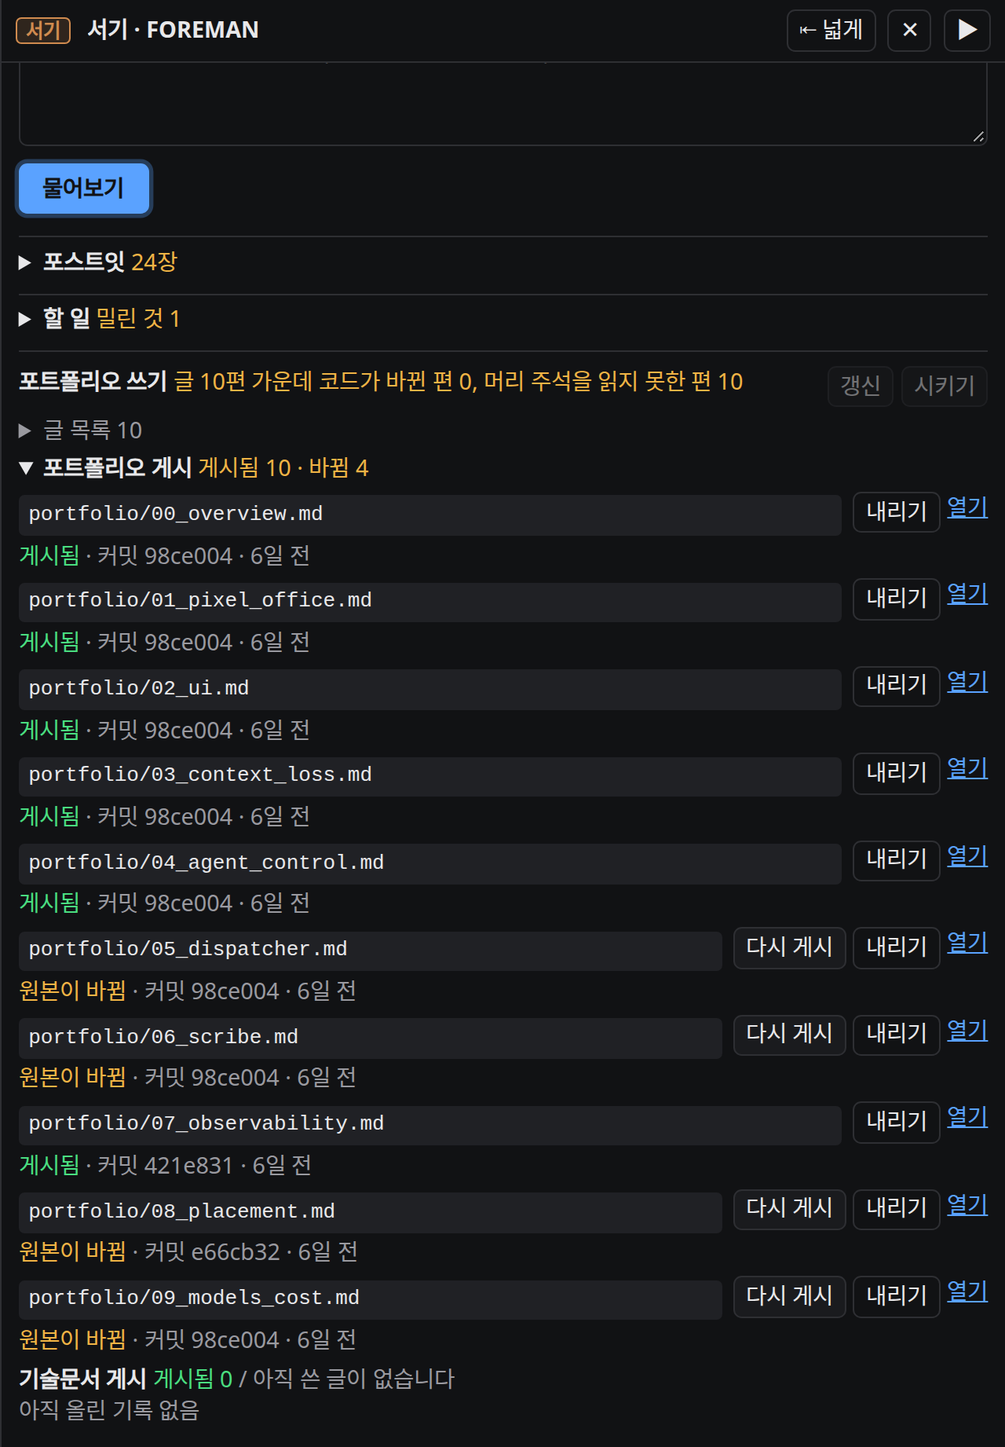
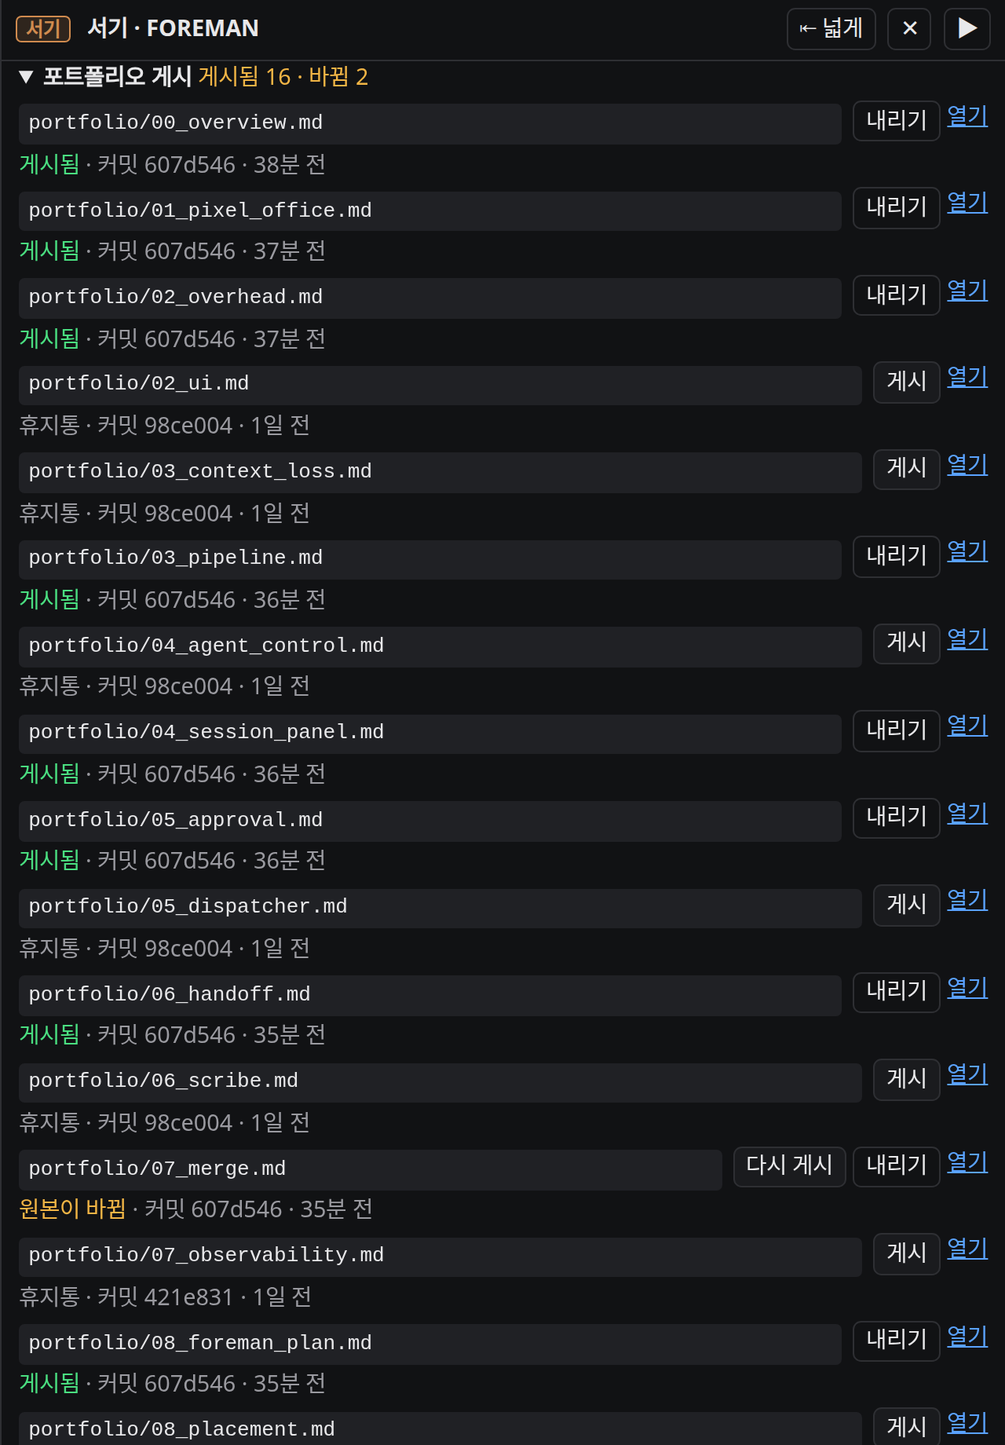
docs: 코드가 바뀐 포트폴리오 8편을 맞춤
서기실이 코드가 바뀐 편으로 센 여덟 편에서, 읽은 뒤 바뀐 코드에 걸리는 문단만 고쳤습니다.
서기실 포트폴리오 게시 칸이 프로젝트별로 열리는 것, 인계 요약 실패 알림이 묶이지 않고 바로 가는 것,
Fable 가격을 비워 사용량 화면에 모름으로 보이는 것, 코더가 고친 코드의 문서도 함께 고치는 규칙을 반영했습니다.
여덟 편 모두 머리 주석의 읽은 커밋을 지금 main으로 바꿨고, 서기실 게시 사진 한 장을 다시 찍었습니다.
사람이 정하는 중인 판단 항목은 고치지 않았습니다.

diff --git a/log/foreman-5_portfolio_backlog_20261117.md b/log/foreman-5_portfolio_backlog_20261117.md
@@ -1,0 +1,61 @@
+# 밀린 포트폴리오 한 번 밀어내기 (foreman-5 서기, 2026-11-17)
+
+관리자 410이 넘긴 사용자 지시. 517 전에 쌓인 서기실 「코드가 바뀐 편」만, 편 전체가 아니라 읽은 커밋 뒤 바뀐 코드에 걸리는 문단만 고쳤다. 편 목록(16편)은 그대로다.
+
+## 1. 대상
+
+서기실 셈법(머리 주석 「읽은 커밋」..main 사이에 「다루는 곳」을 바꾼 feat, fix 커밋)으로 센 8편. 걸린 커밋은 셋뿐이었다.
+
+| 편 | 걸린 커밋 |
+|---|---|
+| 01_pixel_office | fb7121b(517 문서 밀림 사슬 끊기, `roles.js`) |
+| 06_handoff | fb7121b, afcad6b(514 실패 알림 바로, Fable 가격 비우기) |
+| 07_merge | fb7121b |
+| 08_foreman_plan | fb7121b |
+| 09_new_session | fb7121b, afcad6b |
+| 10_scribe_room | 5adb03a(513 포트폴리오 패널 프로젝트별) |
+| 14_usage | afcad6b |
+| 15_telegram | afcad6b |
+
+고친 뒤 같은 셈법으로 다시 세어 0편이다. 8편 모두 읽은 커밋을 fb7121b(main)로 바꿨다. 「다루는 곳」은 바꾸지 않았다.
+
+나눈 방법: 10편과 14, 15편은 서브에이전트 둘에게 맡기고(병렬), 01, 06, 07, 08, 09편은 이 세션이 고쳤다. 서브에이전트 결과는 diff와 코드로 다시 확인했다.
+
+## 2. 고친 문장과 근거
+
+| 편:줄 | 무엇을 | 근거 |
+|---|---|---|
+| 01 | 읽은 커밋만. 53줄 「코드를 고치는 코더」는 짧게 줄인 말이라 지금도 맞음 | `bridge/static/js/roles.js` |
+| 06:54 | 요약 문단 끝에 더함: 요약이 꼴 없이 끝남, 기다리는 중 세션 끝남, 시간 초과면 ⚠를 단 텔레그램 알림이 바로 가고 묶음을 켠 프로젝트여도 미루지 않음 | `bridge/handoff.py` `_notify(fail=True)`, `bridge/notify.py` `direct_decision`, afcad6b, `log/foreman-5_fail_now_unpriced_20261117.md` |
+| 07 | 읽은 커밋만. 517이 「📄 걸리는 문서」 줄을 이미 넣었고, 30줄 「관리자 세션에 카드를 알리지 못하면 바로 알림」은 지금 코드(`later=False`)와 맞음 | `bridge/mergeprep.py` `_tell_manager_card`, fb7121b |
+| 08:49 | 교장이 코드 고친 뒤 문서만 맞추는 서기 세션을 따로 내지 않고, 규칙은 브리지가 코더 첫 글 끝에 붙인다는 두 문장 | `bridge/foreman.py` INSTRUCTIONS 「coder」 줄, `bridge/handoff.py` `_finish_spawn`, fb7121b |
+| 09:34 | 역할 표 아래 새 문단: 코더로 띄우면 첫 입력 끝에 문서도 함께 고치라는 규칙과 거꾸로 찾는 도구 안내가 붙고, 요약 넣고 시작할 때도 붙으며 디자이너, 조사에는 없음 | `bridge/docrefs.py` `prompt_block`, `bridge/roles.py` `CODER_DOCS_RULE`, `DOCS_RULE_ROLES`, `bridge/handoff.py` `inject(rule=)` |
+| 10:48 | 게시 사진 캡션을 새 사진에 맞춰 다시 씀(게시됨 16, 바뀜 2, 휴지통 줄) | 새로 찍은 사진, `bridge/static/js/scribe.js` |
+| 10:52 | 새 문단: 게시 칸이 서기실을 연 프로젝트의 목록을 읽고 게시, 다시 게시, 내리기, 원본 없는 페이지 내리기를 그 프로젝트로 보냄. portfolio 폴더 없으면 「아직 없음」, 커밋 못 읽으면 읽지 못했다고, Notion 자리 없으면 버튼이 까닭과 함께 막히고 서버도 거절 | 5adb03a, `bridge/static/js/scribe.js` `portPubBlock`, `bridge/notion.py` `portfolio_place`, `bridge/api/publish.py`, `log/foreman-4_portfolio_per_project_20261117.md` |
+| 14:19 | Fable 가격 칸을 출처가 없어 비웠고 그 토큰은 「모름」, 화면 띠 「환산이 일부 빠졌습니다.」와 카드 「+ 모름」 | afcad6b, `config/usage.toml`, `bridge/usage.py`, `bridge/static/usage.html` |
+| 14:21 | 가격 없는 Fable 사용이 빠져 한도 하한이 그만큼 작게 나옴 | `bridge/static/usage.html` 띠 글, `bridge/usage.py` `limit_status` |
+| 14:37 | 모델별 표에서 환산 못 한 줄에 「+ 모름」, 호버로 빠진 토큰 수 | `bridge/static/usage.html` `usdRow` |
+| 15:38-40 | 바로 가는 알림 표에 세 줄: 🛡 붙은 「⑂ 합치기 준비됨」, 관리자에게 못 전한 「… 텔레그램으로 남깁니다」, ⚠ 인계 요약 실패 | `bridge/mergeprep.py` `rule_urgent`, 1335줄 글, `bridge/handoff.py`, afcad6b |
+| 15:48 | 바로 가는 것 문단에 합치기 카드 예외와 인계 요약 실패를 더함 | `config/notify.toml`, `bridge/notify.py` `direct_decision` |
+
+사진: `portfolio/img/10_scribe_room_publish.png`만 지금 화면으로 다시 찍음(마법학교, `tools/screen.py --eval --clip`, 263KB). 열어 보고 비밀값, 토큰, 다른 프로젝트 글이 없음을 확인했다.
+
+## 3. 그대로 둔 것
+
+- 판단 19건(`log/foreman-6_portfolio_scope_check_20261117.md`, `log/foreman-7_portfolio_scope_fix_20261117.md` 「6.」)은 고치지 않았다. 10편 10, 34, 50줄은 원문을 두고 513 동작만 아래 새 문단으로 더했다. 15편 표(판단 `15:27-37`)에는 514와 합치기 카드의 바로 가는 줄만 더했고, 승인 쪽 🛡 규칙 파일 알림(rulefile), 압축, 맥락, 겹침, 응답 없음 줄은 판단 항목이 묻는 것이라 더하지 않았다. 사람이 정할 때 참고: 서브에이전트가 돌고 있는 브리지에서 읽어 보니 인프라 방도 「포트폴리오 게시 게시됨 12」라, 10편 판단 항목이 전제한 「포트폴리오는 FOREMAN만」은 지금 사실이 아니다.
+- 「5. 다시 찍을 것」의 사진(01, 00, 02, 10_scribe_room.png, 10_scribe_room_panel.png)은 다시 찍지 않았다. 10편 나머지 두 장은 513이 바꾼 곳이 접힌 게시 머리줄뿐이라 그대로 두었다.
+- 14편 11줄 사진은 Fable 가격을 비우기 전 화면이다(다시 찍지 않음).
+
+## 4. 확인 못 한 것
+
+- 「주간 Fable」 카드 한도 하한이 지금 실제로 비어 보이는지(14일 안 옛 관찰 기록이 남으면 아직 뜰 수 있다). 그래서 「그만큼 더 작게」까지만 썼다.
+- Notion 자리가 없는 프로젝트의 실제 화면(지금 네 프로젝트 모두 자리가 있다). 코드와 log로만 확인.
+
+## 5. 확인한 것
+
+- 새로 쓴 줄의 줄표, 가운뎃점: 10편 캡션의 「게시됨 16 · 바뀜 2」 하나뿐이고, 화면 글을 글자 그대로 옮긴 것이다.
+- `tests/screen_words.py` 걸린 것 없음, `pytest tests/test_screen_words.py` 17 통과.
+
+## 6. 규칙
+
+규칙 위반 없음. 파일 고치기는 Edit, Write로만 했다(서브에이전트도 같다고 보고, 사진은 `cp`로 덮어씀).

diff --git a/portfolio/15_telegram.md b/portfolio/15_telegram.md
@@ -1,6 +1,6 @@
 <!--
 다루는 곳: bridge/notify.py, config/notify.toml, bridge/wake.py, config/wake.toml
-읽은 커밋: 5e0f7c5
+읽은 커밋: fb7121b
 -->
 # 텔레그램 알림
 
@@ -35,6 +35,9 @@ FOREMAN 화면은 여러 세션을 한꺼번에 보여 주지만, 사람이 늘 
 | 세션 기록을 DB에 쌓는 일이 막혔다 | `⚠ 적재 막힘 — 세션 … N분째 같은 자리에서 실패` |
 | 구독 한도에 가까워졌다 | `⚠ 주간 · 전체 사용량 약 80% — …` (95%면 🛑) |
 | 관리자 세션이 사람의 답을 기다린다 | `❓ 관리자가 사용자 답을 기다립니다 · 세션 …` |
+| 합치기 카드에 승인 규칙 파일이 걸렸다 | `⑂ 합치기 준비됨` 아래에 🛡 줄 |
+| 합친 뒤 시험과 push 같은 관리자 몫을 관리자 세션에 전하지 못했다 | `관리자 세션이 없어 텔레그램으로 남깁니다` (전하다 실패했으면 `관리자 세션에 보내지 못해 텔레그램으로 남깁니다`) |
+| 새 세션으로 옮길 인계 요약이 실패했다 | `⚠ 인계 요약 실패, 표지가 없습니다(원문은 패널에 있습니다)` (시간 초과, 기다리는 중에 세션이 끝남도 ⚠로 시작) |
 
 표의 글은 코드에 있는 그대로이고, 「…」 자리는 그때의 세션 번호, 커밋, 시간 같은 값이 들어갑니다. 실패나 막힘을 알린 것은 대부분 회복될 때 「✅ 적재 회복」, 「✅ Jenkins 다시 응답」처럼 한 번 더 알려서, 문제가 아직 남아 있는지 휴대폰에서 바로 알 수 있습니다. 출하 라인의 실패 표시와 빌드 알림 없음은 → 「출하 라인」, 한도 알림은 → 「사용량 화면」, 승인 카드는 → 「승인 카드」에서 화면 쪽을 다룹니다 [code:bridge/notify.py] [code:bridge/pipeline.py] [code:bridge/approvals.py] [code:bridge/ingest_health.py] [code:bridge/usage.py] [code:bridge/api/dashboard.py].
 
@@ -42,7 +45,7 @@ FOREMAN 화면은 여러 세션을 한꺼번에 보여 주지만, 사람이 늘 
 
 알림이 너무 많으면 사람은 알림을 보지 않게 됩니다. 세션 여럿이 하루 종일 턴을 끝낼 때마다 휴대폰이 울리면, 정말 봐야 할 실패 알림이 그 사이에 묻힙니다. 그래서 일상 알림은 바로 보내지 않고 모아 두었다가 매일 저녁 9시(한국 시간)에 프로젝트마다 한 통으로 보냅니다. 모으는 것은 정상으로 끝난 턴, 서브에이전트 묶음, 합치기 카드, 새 세션으로 옮기기 기록, 노션 문서 게시, 어긋남 알림입니다. 묶음 한 통은 「📦 하루 묶음 11-15 — 일상 알림 N건(급한 것은 그때그때 보냈습니다)」으로 시작하고, 종류별로 「■ 턴 끝 N건」 아래에 시각과 한 줄씩 늘어놓습니다 [code:bridge/notify.py] [code:config/notify.toml] [log:notify_relay_20261112.md].
 
-묶음으로 미루는 종류여도 글에 ⚠, ❌, 🛑, ⏰, ❓ 가운데 하나가 있으면 바로 보냅니다. 턴이 API 오류나 중단으로 끝났거나, 프로세스가 사라졌거나, 진행 중에 세션이 끝났거나, 세션이 사람에게 묻는 말로 턴을 끝냈을 때도 바로 갑니다. 묶음을 보내지 못하면 그 사실을 바로 알리고 10분마다 다시 보내며, 모아 둔 알림이 26시간 넘게 나가지 못하고 있으면 그것도 알립니다. 묶음 자체가 조용히 막혀 일상 알림이 통째로 사라지는 일을 막기 위해서입니다 [code:config/notify.toml] [code:bridge/notify.py].
+묶음으로 미루는 종류여도 글에 ⚠, ❌, 🛑, ⏰, ❓ 가운데 하나가 있으면 바로 보냅니다. 턴이 API 오류나 중단으로 끝났거나, 프로세스가 사라졌거나, 진행 중에 세션이 끝났거나, 세션이 사람에게 묻는 말로 턴을 끝냈을 때도 바로 갑니다. 합치기 카드 알림도 대개는 묶음으로 가지만, 승인 규칙 파일이 바뀌어 🛡 줄이 붙었거나 관리자 세션에 전하지 못해 사람에게 넘기는 것이면 바로 갑니다. 새 세션으로 옮기기 기록 가운데 인계 요약이 실패했거나 시간이 지난 것은 글 앞에 ⚠를 달아 바로 보냅니다. 실패는 묶어서 늦게 알 까닭이 없기 때문입니다. 묶음을 보내지 못하면 그 사실을 바로 알리고 10분마다 다시 보내며, 모아 둔 알림이 26시간 넘게 나가지 못하고 있으면 그것도 알립니다. 묶음 자체가 조용히 막혀 일상 알림이 통째로 사라지는 일을 막기 위해서입니다 [code:config/notify.toml] [code:bridge/notify.py].
 
 묶음을 켠 프로젝트에서는 작업 세션의 턴 끝 보고가 사람에게 바로 가지 않고 먼저 그 프로젝트의 관리자 세션 입력 칸으로 갑니다. 관리자가 사람에게 올릴 것을 골라 보고로 올리면 그 보고는 저녁 묶음에 실리고, 물음으로 올리면 바로 갑니다. 화면에서는 관리자 머리 위에 「사용자에게 보고함」이나 「사용자 답 기다림」으로 같은 것이 보입니다(→ 「머리 위 표시와 띠」) [code:bridge/notify.py] [code:bridge/api/dashboard.py].
 

diff --git a/portfolio/10_scribe_room.md b/portfolio/10_scribe_room.md
@@ -1,6 +1,6 @@
 <!--
 다루는 곳: bridge/static/js/scribe.js, bridge/scribe_room.py, bridge/scribe_ask.py, bridge/notion.py, bridge/docsync.py, bridge/manuscript.py, bridge/api/scribe.py, bridge/api/publish.py, config/notion.toml
-읽은 커밋: 5e0f7c5
+읽은 커밋: fb7121b
 -->
 
 # 서기실
@@ -45,9 +45,11 @@
 
 ## 게시: 포트폴리오와 기술문서
 
-![서기실 창 아래쪽. 펼친 「포트폴리오 게시 게시됨 10 · 바뀜 4」에 편마다 게시 상태(게시됨, 원본이 바뀜), 커밋, [다시 게시] [내리기] [열기]. 맨 아래 「기술문서 게시 게시됨 0 / 아직 쓴 글이 없습니다」. 11-15에 찍은 화면이라 편 수와 게시 수가 지금(16편)과 다르다 〔실제 화면〕](img/10_scribe_room_publish.png)
+![FOREMAN 방 서기실 창에서 펼친 「포트폴리오 게시 게시됨 16 · 바뀜 2」. 편마다 게시 상태(게시됨, 원본이 바뀜, 휴지통)와 올린 커밋, 그리고 [게시] [다시 게시] [내리기] [열기]. 휴지통 줄은 편을 새로 짜면서 내린 옛 편의 페이지다 〔실제 화면〕](img/10_scribe_room_publish.png)
 
 글의 원본은 git 저장소이고 Notion은 게시판입니다. 「포트폴리오 게시」를 펼치면 편마다 Notion에 올라간 상태와 올린 커밋이 보입니다. 저장소에 합친 뒤 글이 바뀌었으면 「원본이 바뀜」이 뜨고, [다시 게시]를 누르면 main에 커밋된 원본을 같은 Notion 페이지에 덮어써 주소가 그대로 남습니다. 내용이 같으면 건너뜁니다. 포트폴리오는 바깥 독자용이라 저장소 링크와 근거 표시를 떼고 올립니다. [내리기]는 Notion 페이지를 휴지통으로 보내 30일 안에 되살릴 수 있고, 저장소에서 지운 편의 페이지는 [원본 없는 페이지 내리기]로 한꺼번에 치웁니다. 버튼을 눌러야만 올라가고 저절로 올라가지 않습니다 [code:bridge/notion.py] [docs:12_scribe.md].
+
+이 칸은 서기실을 연 프로젝트의 게시 목록을 읽고, 게시와 다시 게시, 내리기, 원본 없는 페이지 내리기도 그 프로젝트의 Notion 페이지로 보냅니다. 그 프로젝트의 원본 커밋에 portfolio 폴더가 없으면 「아직 없음」으로 보이고, 원본 커밋을 읽지 못하면 없다고 넘기지 않고 읽지 못했다고 보입니다. Notion 안에서 포트폴리오를 둘 자리가 설정에 정해지지 않은 프로젝트는 상태만 보이고, [게시]와 [다시 게시] 버튼이 그 까닭과 함께 막힙니다. 자리가 없을 때 아무 곳에나 올라가지 않게 서버도 같은 까닭으로 게시를 거절합니다.
 
 「기술문서 게시」는 프로젝트마다 다르게 돕니다. 지금 FOREMAN과 인프라 저장소는 사람이 읽을 기술문서 원고를 따로 쓰고, 그 원고는 [Notion에 올리기]를 눌러야만 올라갑니다. 누르면 새로 올릴 편, 바뀐 편, 지워진 편과 「쓴 뒤 다루는 코드가 바뀐 편」을 먼저 확인 창에 보입니다. 런슈즈와 펫퍼민트는 저장소의 `docs/`를 그대로 올리고, docs 커밋을 GitHub에 올린(push) 뒤 한동안 조용하면 바뀐 파일만 저절로 갈아 끼우며 [지금 맞추기]로 바로 올릴 수도 있습니다. 어느 쪽이든 사람이 Notion에서 직접 고친 페이지는 덮지 않고 알리며, 덮으려면 [Notion 수정 버리고 덮기]를 따로 누릅니다 [code:bridge/docsync.py] [log:foreman-4_techdoc_portfolio_path_20261115.md].
 

diff --git a/portfolio/08_foreman_plan.md b/portfolio/08_foreman_plan.md
@@ -1,6 +1,6 @@
 <!--
 다루는 곳: bridge/static/js/foremanchat.js, bridge/static/js/fmpanel.js, bridge/foreman.py, bridge/foreman_note.py, bridge/overlap.py, bridge/handover.py, bridge/wake.py, bridge/api/foreman.py
-읽은 커밋: 5e0f7c5
+읽은 커밋: fb7121b
 -->
 
 # 교장 계획 창과 감독실
@@ -46,7 +46,7 @@
 
 ![계획 카드 아래쪽. 「세션 2개입니다」와 세션마다 띄울지 켜고 끄는 칸, 펼친 「왜 이렇게 판단했나 · 확신도 80%」, 그리고 [버리기] [다시 물어보기] [관리자에게 보내기] [이대로 시작] 줄. 이미 시작한 계획이라 단추가 잠겨 있다 〔실제 화면〕](img/08_foreman_plan_card_more.png)
 
-한 요청으로 세션을 여럿 띄울 수도 있습니다. 「두 세션으로, 하나는 문서, 하나는 코드」처럼 말하면 카드에 세션 칸이 여럿 생기고, 세션마다 이름, 역할, 모델, 맡을 파일, 첫 글을 따로 고치고 띄울지 말지를 켜고 끕니다. 맨 아래 「왜 이렇게 판단했나」에는 교장이 든 까닭과 확신도가 있고, 확신도가 70%보다 낮으면 처음부터 펼쳐집니다. 교장이 틀렸거나 계획을 받지 못했을 때는 창 아래 「계획 없이 직접 띄우기」를 펼쳐 프로젝트와 이름, 시작 방식을 직접 고릅니다. 새 세션 창의 칸은 → 「새 세션 창」 [code:bridge/static/js/foremanchat.js].
+한 요청으로 세션을 여럿 띄울 수도 있습니다. 「두 세션으로, 하나는 문서, 하나는 코드」처럼 말하면 카드에 세션 칸이 여럿 생기고, 세션마다 이름, 역할, 모델, 맡을 파일, 첫 글을 따로 고치고 띄울지 말지를 켜고 끕니다. 다만 코드를 고친 뒤 그 코드를 설명하는 문서만 맞추는 서기 세션은 교장이 따로 내지 않습니다. 코더 세션이 같은 브랜치에서 그 문서도 함께 고치고, 그 규칙은 브리지가 코더의 첫 글 끝에 붙여 주기 때문입니다. 맨 아래 「왜 이렇게 판단했나」에는 교장이 든 까닭과 확신도가 있고, 확신도가 70%보다 낮으면 처음부터 펼쳐집니다. 교장이 틀렸거나 계획을 받지 못했을 때는 창 아래 「계획 없이 직접 띄우기」를 펼쳐 프로젝트와 이름, 시작 방식을 직접 고릅니다. 새 세션 창의 칸은 → 「새 세션 창」 [code:bridge/static/js/foremanchat.js].
 
 ## 겹침 알림
 

diff --git a/portfolio/06_handoff.md b/portfolio/06_handoff.md
@@ -1,6 +1,6 @@
 <!--
 다루는 곳: bridge/static/js/handoff.js, bridge/static/js/moveflow.js, bridge/static/js/losscheck.js, bridge/static/js/promote.js, bridge/handoff.py, bridge/api/handoff.py, bridge/losscheck.py, bridge/promote.py, bridge/pointers.py, config/handoff.toml
-읽은 커밋: 5e0f7c5
+읽은 커밋: fb7121b
 -->
 
 # 세션 정리: 인계와 옮기기
@@ -51,7 +51,7 @@ flowchart LR
 
 ## 옮기기용 요약과 읽을 곳
 
-문서에 쓴 다음에는 세션이 새 세션에게 넘길 요약을 씁니다. 요약은 그 세션 자신이 기억으로 쓰고, 브리지가 따로 다른 모델을 부르지 않습니다. 길이는 2,500자 안이고 「지금 상태」, 「다음 할 일」, 「걸려 있는 것」, 「문서와 다른 지금」, 「읽을 곳」 다섯 절로 정해져 있습니다 [code:bridge/handoff.py]. 요약을 짧게 두는 까닭은, 문서에 이미 있는 것은 새 세션이 직접 읽게 하고 요약에는 문서에 없는 것만 담기 위해서입니다.
+문서에 쓴 다음에는 세션이 새 세션에게 넘길 요약을 씁니다. 요약은 그 세션 자신이 기억으로 쓰고, 브리지가 따로 다른 모델을 부르지 않습니다. 길이는 2,500자 안이고 「지금 상태」, 「다음 할 일」, 「걸려 있는 것」, 「문서와 다른 지금」, 「읽을 곳」 다섯 절로 정해져 있습니다 [code:bridge/handoff.py]. 요약을 짧게 두는 까닭은, 문서에 이미 있는 것은 새 세션이 직접 읽게 하고 요약에는 문서에 없는 것만 담기 위해서입니다. 요약이 오지 않는 경우도 조용히 넘기지 않습니다. 세션이 정해진 꼴을 갖춘 요약 없이 응답을 끝냈거나, 기다리는 사이에 세션이 끝났거나, 정해진 시간 안에 돌아오지 않으면 브리지가 실패로 남기고 ⚠를 단 텔레그램 알림을 바로 보냅니다. 일상 알림을 저녁에 하루치로 모아 보내도록 켠 프로젝트여도 이 실패 알림은 미루지 않습니다. 단추를 누르고 다른 화면으로 떠난 사람도 요약이 막혔다는 것을 그때 알 수 있게 하려는 것입니다.
 
 ![「옮기기용 요약」 카드 — 지금 상태, 다음 할 일, 문서와 다른 지금, 읽을 곳 절이 보이고 오른쪽 위 [고치기]로 사람이 손볼 수 있습니다. 글은 시연용입니다 〔시연 재생〕](img/06_handoff_summary.png)
 

diff --git a/portfolio/09_new_session.md b/portfolio/09_new_session.md
@@ -1,6 +1,6 @@
 <!--
 다루는 곳: bridge/static/js/newsession.js, bridge/static/js/modelpick.js, bridge/static/js/roles.js, bridge/roles.py, bridge/model_choice.py, bridge/worktree.py, bridge/handoff.py, bridge/api/handoff.py, config/models.toml
-읽은 커밋: 5e0f7c5
+읽은 커밋: fb7121b
 -->
 
 # 새 세션 창
@@ -30,6 +30,8 @@
 | 관리자 | 합치고 시험하고 push하고 기록합니다 | Opus 5.5 |
 | 서기 | 문서를 쓰고 맞춥니다 | Opus 5.5 |
 | 조사 | 읽고 알아봅니다. 고치지 않고 결과 log만 씁니다. 조사와 제안은 모두 여기입니다 | Sonnet 5.5 |
+
+코더로 띄우면 브리지가 첫 입력 끝에 규칙 한 절을 저절로 붙입니다. 고친 코드를 가리키는 문서(설계 문서, 기술문서 원고, 포트폴리오)가 있으면 그 문서도 함께 고치고, 어느 문서가 걸리는지는 코드 경로에서 문서를 거꾸로 찾는 도구로 확인하라는 내용입니다. 옮기기용 요약을 넣고 시작할 때도 같은 절이 붙습니다. 디자이너와 조사에는 붙이지 않습니다. 코드를 고친 뒤 문서는 나중에 서기가 따라잡게 두면 그사이 문서가 낡기 때문에, 고친 사람이 그 자리에서 함께 고치게 한 것입니다.
 
 기본값은 설정 파일에 있습니다 [code:config/models.toml]. 모델 칸에는 Opus 5.5, Opus 5, Sonnet 5.5, Haiku 5.5, Fable 5.2가 있고, 맨 위 「CC 설정 따르기」를 고르면 모델을 정하지 않고 Claude Code의 설정대로 띄웁니다. 목록에 없는 모델 이름을 API로 보내면 서버가 거부합니다. 다만 예전에 쓰던 짧은 이름(opus, sonnet, haiku)은 거부하지 않고 목록의 모델로 바꿔 받습니다 [code:bridge/model_choice.py] [log:stage12_model_choice_result.md].
 

diff --git a/portfolio/01_pixel_office.md b/portfolio/01_pixel_office.md
@@ -1,6 +1,6 @@
 <!--
 다루는 곳: bridge/static/js/office.js, bridge/static/js/theme.js, bridge/static/js/grid.js, bridge/static/js/walk.js, bridge/static/js/sprites.js, bridge/static/js/aura.js, bridge/static/js/roles.js, bridge/static/js/tip.js, bridge/static/themes/
-읽은 커밋: 5e0f7c5
+읽은 커밋: fb7121b
 -->
 # 픽셀 지도와 방
 

diff --git a/portfolio/07_merge.md b/portfolio/07_merge.md
@@ -1,6 +1,6 @@
 <!--
 다루는 곳: bridge/mergeprep.py, bridge/coder_room.py, bridge/inspector_close.py, bridge/worktree.py, bridge/api/coder.py, bridge/static/js/coder.js, bridge/static/js/handoff.js, bridge/static/js/render.js, config/handoff.toml
-읽은 커밋: 5e0f7c5
+읽은 커밋: fb7121b
 -->
 
 # 합치기 카드와 코더 창
